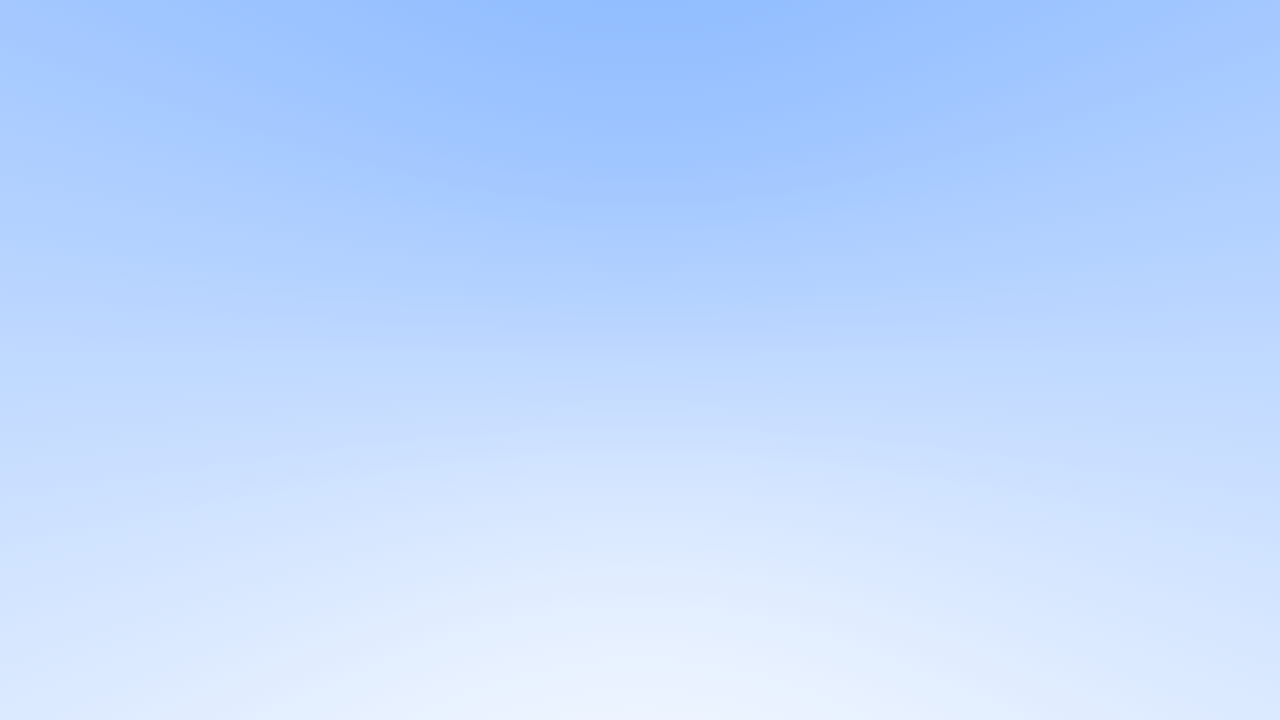
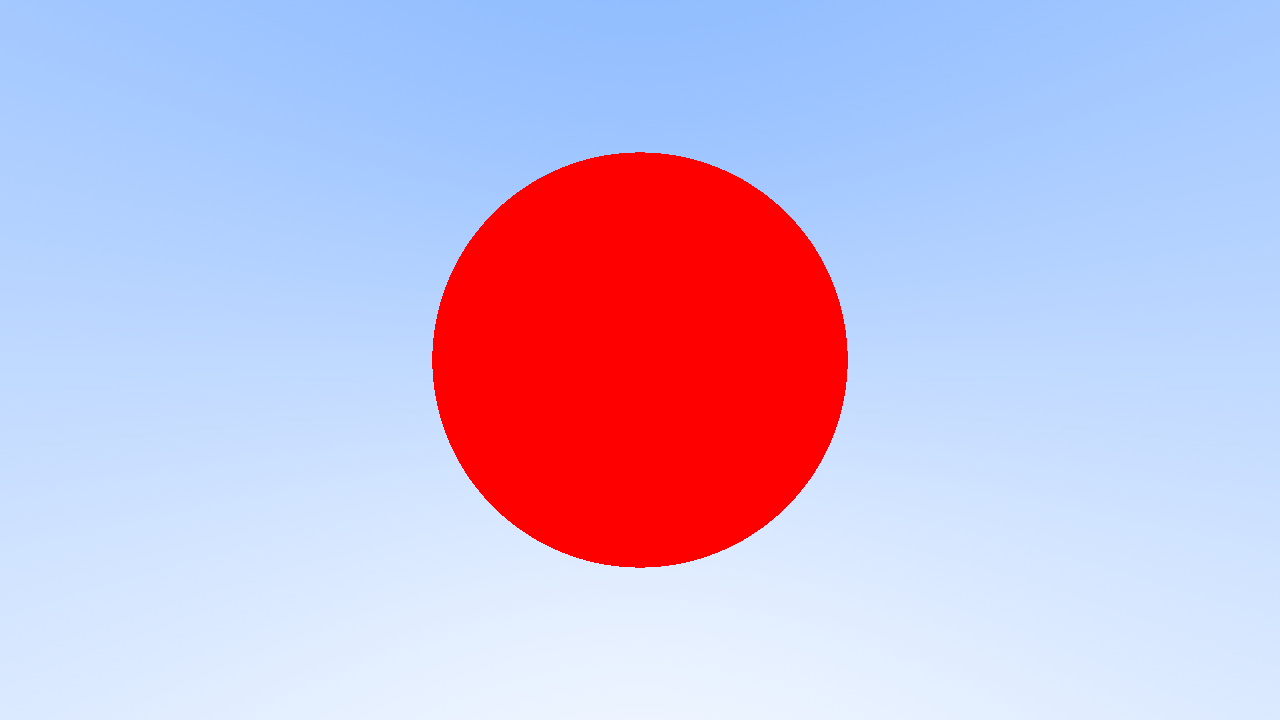
Render shadeless sphere

Changed region(s): [[0.3125, 0.2139, 0.6875, 0.7944]]

diff --git a/Raytracing.cpp b/Raytracing.cpp
@@ -1,5 +1,6 @@
 #include "Raytracing.h"
 #include "Filters.h"
+#include "Sphere.h"
 
 bool Image::PrintToConsole = false;
 
@@ -7,6 +8,9 @@ Raytracing::Raytracing() {
 }
 
 bool Raytracing::Run() {
+	// Create Objects
+	Sphere sphere1(Vector3D(0, 0, -1), 0.5);
+
 	// Image
 	const float aspect_ratio = 16.0f / 9.0f;
 	const int image_width = 1280;
@@ -57,7 +61,15 @@ bool Raytracing::Run() {
 			dir -= origin;
 
 			Ray ray(origin, dir);
-			Vector3D pixel_color = RayColor(ray);
+			//Vector3D pixel_color = RayColor(ray);
+			Vector3D pixel_color;
+
+			if (sphere1.Hit(ray)) {
+				pixel_color = Vector3D(255.0f, 0.0f, 0.0f);
+			}
+			else {
+				pixel_color = RayColor(ray);
+			}
 
 			int index = image.GetIndex(x, flippedY);
 
@@ -68,6 +80,7 @@ bool Raytracing::Run() {
 	}
 
 	OrderedDithering(image, DitherFilter::FULLCOLOR, Threshold::ORDERED_8, 255);
+	
 	image.Write("images/render.png");
 
 	return true;

diff --git a/Sphere.cpp b/Sphere.cpp
@@ -1,0 +1,18 @@
+#include "Sphere.h"
+
+Sphere::Sphere(const Vector3D center, const float radius) {
+	m_pos = center;
+	m_radius = radius;
+}
+
+bool Sphere::Hit(Ray& Hit) {
+	Vector3D oc = Hit.GetOrigin() - m_pos;
+
+	// https://raytracing.github.io/books/RayTracingInOneWeekend.html#addingasphere/creatingourfirstraytracedimage #5.2
+	float a = Hit.GetDirection().DotProduct(Hit.GetDirection());
+	float b = 2.0f * oc.DotProduct(Hit.GetDirection());
+	float c = oc.DotProduct(oc) - (m_radius * m_radius);
+	float discriminant = b * b - 4 * a * c;
+
+	return discriminant > 0;
+}

diff --git a/Ray.h b/Ray.h
@@ -12,8 +12,8 @@ public:
 	~Ray();
 
 public: // getters
-	const Vector3D GetDirection() { return m_dir; }
-	const Vector3D GetOrigin() { return m_orig; }
+	Vector3D GetDirection() { return m_dir; }
+	Vector3D GetOrigin() { return m_orig; }
 
 private:
 	Vector3D m_orig;

diff --git a/Sphere.h b/Sphere.h
@@ -1,0 +1,13 @@
+#pragma once
+#include "Object.h"
+#include "Ray.h"
+
+class Sphere : public Object {
+public:
+	Sphere(const Vector3D center, const float radius);
+
+	virtual bool Hit(Ray& Hit);
+
+private:
+	float m_radius;
+};

diff --git a/Object.h b/Object.h
@@ -6,7 +6,7 @@ class Object {
 public:
 	Object();
 
-	virtual bool Hit(const Ray& Hit) = 0;
+	virtual bool Hit(Ray& Hit) = 0;
 
 	const Vector3D GetPos();
 
